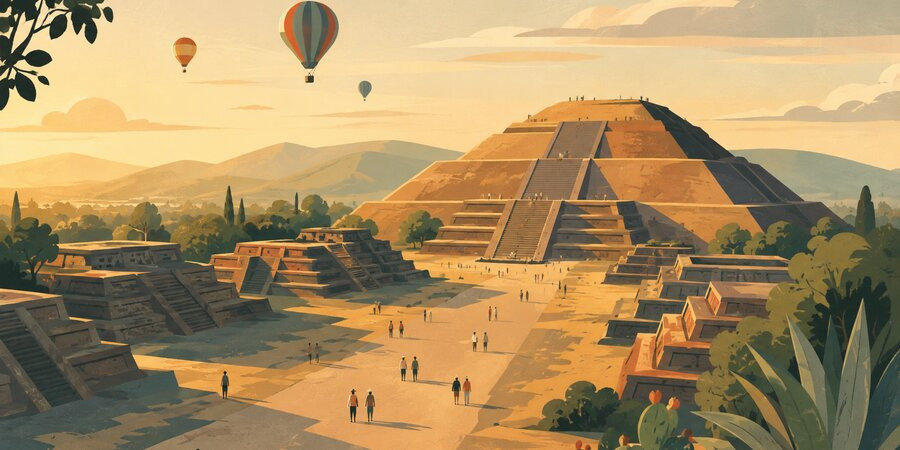
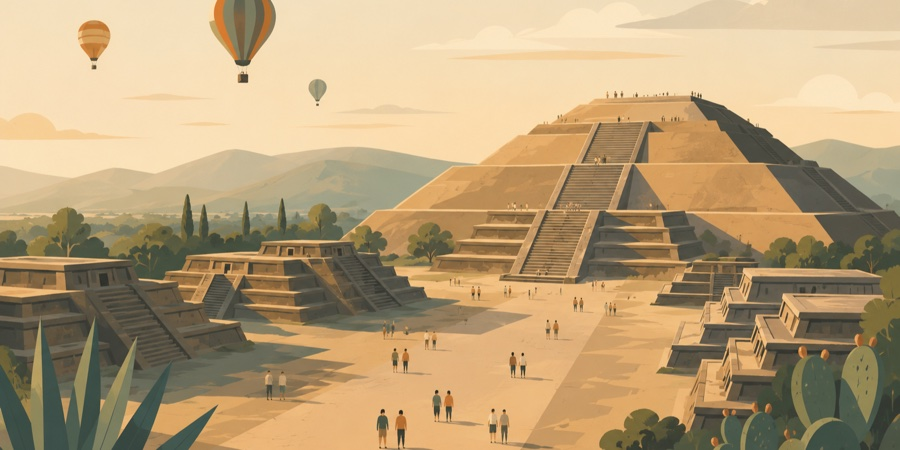
content(guia): WhatsApp transport link, no-image card fallback, new experience photos
- Turns "Insider" into an inline WhatsApp booking link in the transportation
  arrival card (both languages), matching the eSIM link pattern.
- Removes leftover em dashes from the City Zones copy.
- Adds an .expCardNoImg layout so an experience card without a sourced photo
  renders as a clean full-width row instead of a placeholder box.
- Replaces the Teotihuacán and Frida/Casa Azul experience photos and adds a
  new one for Mexico City Through Tacos (Lucha Libre re-exported at the same
  crop/size); all four now use real images.

Claude-Session: https://claude.ai/code/session_01QUve8MaP5rjg7bE24jnv6C

diff --git a/content/guia/cities/cdmx.ts b/content/guia/cities/cdmx.ts
@@ -17,21 +17,21 @@ export const cdmx: City = {
       tabLabel: { es: 'Tu casa', en: 'Your house' },
       mapUrl: 'https://maps.app.goo.gl/qQSdT8RVpHCzGpxi8',
       tagline: { es: 'A pasos de tu puerta', en: 'Steps from your door' },
-      orientation: { es: 'Todo aquí está genuinamente a 10 minutos a pie de tu casa — sin matices, esta es la zona real.', en: 'Everything here is genuinely a 10-minute walk from your house — no hedging, this is the real thing.' },
+      orientation: { es: 'Todo aquí está genuinamente a 10 minutos a pie de tu casa, sin matices, esta es la zona real.', en: 'Everything here is genuinely a 10-minute walk from your house, no hedging, this is the real thing.' },
       spots: {
         es: [
-          { icon: 'coffee',     name: 'Quentin',      distance: 'Ámsterdam 67a',                    note: 'Café de especialidad, repostería y una pequeña zona para sentarte, con decoración cuidada — el favorito del barrio.' },
-          { icon: 'utensilsSm', name: 'Maizajo',       distance: 'Fernando Montes de Oca 113',       note: 'Tortillería en funcionamiento abajo, restaurante formal arriba — pide el suadero y el tamal de boda. La taquería es de pie, sin reservación; el comedor de arriba sí las toma.' },
-          { icon: 'trees',      name: 'Parque España',  distance: 'Parque España',   note: 'A unas cuadras: la contraparte más chica y tranquila del Parque México — una vuelta para correr, tianguis los sábados y bancas que se mantienen en sombra casi todo el día.' },
-          { icon: 'landmark',   name: 'Foro Shakespeare', distance: 'Zamora 7, esq. Veracruz',       note: 'Un teatro independiente activo desde 1982 — el foro alternativo de la ciudad, en la esquina misma. Taquilla abre a las 5pm entre semana.' },
+          { icon: 'coffee',     name: 'Quentin',      distance: 'Ámsterdam 67a',                    note: 'Café de especialidad, repostería y una pequeña zona para sentarte, con decoración cuidada, el favorito del barrio.' },
+          { icon: 'utensilsSm', name: 'Maizajo',       distance: 'Fernando Montes de Oca 113',       note: 'Tortillería en funcionamiento abajo, restaurante formal arriba. Pide el suadero y el tamal de boda. La taquería es de pie, sin reservación; el comedor de arriba sí las toma.' },
+          { icon: 'trees',      name: 'Parque España',  distance: 'Parque España',   note: 'A unas cuadras: la contraparte más chica y tranquila del Parque México, una vuelta para correr, tianguis los sábados y bancas que se mantienen en sombra casi todo el día.' },
+          { icon: 'landmark',   name: 'Foro Shakespeare', distance: 'Zamora 7, esq. Veracruz',       note: 'Un teatro independiente activo desde 1982, el foro alternativo de la ciudad, en la esquina misma. Taquilla abre a las 5pm entre semana.' },
           { icon: 'basket',     name: 'Choza',          distance: 'Tenancingo 38',                    note: 'Tienda y cafetería de vida artesanal: cerámica, textiles y objetos hechos en colaboración con artesanos independientes; buen lugar para un café mientras curioseas.' },
           { icon: 'martini',    name: 'Baltra Bar',     distance: 'Iztaccihuatl 36D',                 note: 'Un bar de coctelería con nombre de isla Galápagos y especialidad en martinis; terraza para el aperitivo antes de cenar. Martes de martini con descuento.' },
         ],
         en: [
-          { icon: 'coffee',     name: 'Quentin',      distance: 'Ámsterdam 67a',                    note: 'Specialty coffee, baked goods, a small seating area with trendy decor — the neighborhood\'s go-to.' },
-          { icon: 'utensilsSm', name: 'Maizajo',       distance: 'Fernando Montes de Oca 113',       note: 'A working tortillería downstairs, a proper restaurant upstairs — order the suadero and the tamal de boda. Standing-room taquería, no reservations; the upstairs dining room does take them.' },
-          { icon: 'trees',      name: 'Parque España',  distance: 'Parque España',   note: 'A few blocks over: a smaller, calmer counterpart to Parque México — a loop for running, a Saturday market, and benches that stay in the shade most of the day.' },
-          { icon: 'landmark',   name: 'Foro Shakespeare', distance: 'Zamora 7, esq. Veracruz',       note: 'An independent theater running since 1982 — Mexico City\'s own alternative stage, right on the corner. Box office opens at 5pm on weekdays.' },
+          { icon: 'coffee',     name: 'Quentin',      distance: 'Ámsterdam 67a',                    note: 'Specialty coffee, baked goods, a small seating area with trendy decor, the neighborhood\'s go-to.' },
+          { icon: 'utensilsSm', name: 'Maizajo',       distance: 'Fernando Montes de Oca 113',       note: 'A working tortillería downstairs, a proper restaurant upstairs. Order the suadero and the tamal de boda. Standing-room taquería, no reservations; the upstairs dining room does take them.' },
+          { icon: 'trees',      name: 'Parque España',  distance: 'Parque España',   note: 'A few blocks over: a smaller, calmer counterpart to Parque México, a loop for running, a Saturday market, and benches that stay in the shade most of the day.' },
+          { icon: 'landmark',   name: 'Foro Shakespeare', distance: 'Zamora 7, esq. Veracruz',       note: 'An independent theater running since 1982, Mexico City\'s own alternative stage, right on the corner. Box office opens at 5pm on weekdays.' },
           { icon: 'basket',     name: 'Choza',          distance: 'Tenancingo 38',                    note: 'A lifestyle shop and coffee counter: ceramics, textiles and objects made in collaboration with independent artisans; good for a coffee while you browse.' },
           { icon: 'martini',    name: 'Baltra Bar',     distance: 'Iztaccihuatl 36D',                 note: 'A cocktail bar named for a Galápagos island, built around a strong martini list; outdoor seating for a pre-dinner drink. Discounted martinis on Tuesdays.' },
         ],
@@ -42,7 +42,7 @@ export const cdmx: City = {
       name: 'Roma Norte',
       mapUrl: 'https://maps.app.goo.gl/NM3HZoTVpWPuNagb9',
       tagline: { es: 'Café de especialidad, galerías pequeñas, vida de banqueta.', en: 'Specialty coffee, small galleries, sidewalk life.' },
-      orientation: { es: 'Una de tus dos zonas más cercanas — la mayoría de estos lugares está a 10 minutos o menos a pie.', en: 'One of your two closest zones — most of these are a 10-minute walk or less.' },
+      orientation: { es: 'Una de tus dos zonas más cercanas, la mayoría de estos lugares está a 10 minutos o menos a pie.', en: 'One of your two closest zones, most of these are a 10-minute walk or less.' },
       spots: {
         es: [
           { icon: 'coffee',     name: 'Panadería Gala',                    distance: 'Tonalá 143',        note: 'Pan y repostería recién horneados, una buena manera de empezar la mañana.' },
@@ -67,14 +67,14 @@ export const cdmx: City = {
       name: 'Condesa',
       mapUrl: 'https://maps.app.goo.gl/B8UA8SMys7ZPKSb17',
       tagline: { es: 'Art déco, parques circulares, mezcalerías de barrio.', en: 'Art deco, circular parks, neighborhood mezcal bars.' },
-      orientation: { es: 'Una de tus dos zonas más cercanas — la mayoría de estos lugares está a 10 minutos o menos a pie.', en: 'One of your two closest zones — most of these are a 10-minute walk or less.' },
+      orientation: { es: 'Una de tus dos zonas más cercanas, la mayoría de estos lugares está a 10 minutos o menos a pie.', en: 'One of your two closest zones, most of these are a 10-minute walk or less.' },
       spots: {
         es: [
           { icon: 'coffee',     name: 'Lardo',                                                     distance: 'Agustín Melgar 6',                  note: 'Panadería y bistró en una parada, perfecto para el desayuno.' },
           { icon: 'utensilsSm', name: 'Ciena',                                                      distance: 'Alfonso Reyes 101, esq. Tacámbaro', note: 'Cocina abierta y terraza que sirve todo el día: desayuno desde las 8, barra por la tarde, cena sin prisa. Llévate la galleta de chocolate con sal.' },
           { icon: 'trees',      name: 'Parque México',                                              distance: 'Av. México',                        note: 'El corazón verde de la colonia: anfiteatro, viveros y bancas art déco.' },
           { icon: 'landmark',   name: 'Centro Cultural Bella Época / Librería Rosario Castellanos', distance: 'Tamaulipas 202',                    note: 'Un cine art déco convertido en la librería techada más grande del país; abre diario hasta las 10 pm.' },
-          { icon: 'basket',     name: 'Proyecto Rufina',                                            distance: 'Ámsterdam 133',                     note: 'Ropa y cerámica mexicana en fibras naturales, producción limitada — no venden en línea, solo aquí.' },
+          { icon: 'basket',     name: 'Proyecto Rufina',                                            distance: 'Ámsterdam 133',                     note: 'Ropa y cerámica mexicana en fibras naturales, producción limitada; no venden en línea, solo aquí.' },
           { icon: 'martini',    name: 'La Botica Mezcalería',                                       distance: 'Campeche 396',                      note: 'La primera mezcalería de la Ciudad de México, abierta en 2005 en un local de doce metros cuadrados; barra sencilla, mezcales de productor pequeño.' },
         ],
         en: [
@@ -82,8 +82,8 @@ export const cdmx: City = {
           { icon: 'utensilsSm', name: 'Ciena',                                                      distance: 'Alfonso Reyes 101, esq. Tacámbaro', note: 'Open kitchen and a terrace that serves all day: breakfast from 8, bar menu in the afternoon, unhurried dinner. Take the salted chocolate cookie to go.' },
           { icon: 'trees',      name: 'Parque México',                                              distance: 'Av. México',                        note: 'The green heart of the neighborhood: amphitheater, plant stalls, art deco benches.' },
           { icon: 'landmark',   name: 'Centro Cultural Bella Época / Librería Rosario Castellanos', distance: 'Tamaulipas 202',                    note: 'An art deco cinema turned the country\'s largest single-room bookstore; open daily until 10 pm.' },
-          { icon: 'basket',     name: 'Proyecto Rufina',                                            distance: 'Ámsterdam 133',                     note: 'Mexican clothing and ceramics in natural fibers, small-batch — no online store, only in person.' },
-          { icon: 'martini',    name: 'La Botica Mezcalería',                                       distance: 'Campeche 396',                      note: 'The city\'s first mezcalería, opened in 2005 in a twelve-square-meter room — a simple bar, small-producer mezcal.' },
+          { icon: 'basket',     name: 'Proyecto Rufina',                                            distance: 'Ámsterdam 133',                     note: 'Mexican clothing and ceramics in natural fibers, small-batch; no online store, only in person.' },
+          { icon: 'martini',    name: 'La Botica Mezcalería',                                       distance: 'Campeche 396',                      note: 'The city\'s first mezcalería, opened in 2005 in a twelve-square-meter room; a simple bar, small-producer mezcal.' },
         ],
       },
     },
@@ -98,8 +98,8 @@ export const cdmx: City = {
           { icon: 'coffee',     name: 'ENO',             distance: 'Petrarca 258',        note: 'El café de Enrique Olvera: concha con nata y un espresso antes de los museos.' },
           { icon: 'utensilsSm', name: 'El Turix',        distance: 'Emilio Castelar 212', note: 'Cochinita pibil de barra, en efectivo y de pie; el contrapeso perfecto al Polanco de manteles.' },
           { icon: 'trees',      name: 'Parque Lincoln',  distance: 'Emilio Castelar 163', note: 'Pavorreales, el reloj y las mejores bancas para leer.' },
-          { icon: 'landmark',   name: 'Soumaya + Jumex', distance: 'Plaza Carso',         note: 'Dos museos pared con pared: Soumaya gratis y abierto diario, Jumex de arte contemporáneo — cierra lunes. Un solo viaje, tres horas.' },
-          { icon: 'basket',     name: 'LAGO',            distance: 'Av. Pdte. Masaryk 310', note: 'Diseño latinoamericano contemporáneo — ropa, joyería, cerámica y objetos de más de veinte países, todo curado bajo un mismo techo.' },
+          { icon: 'landmark',   name: 'Soumaya + Jumex', distance: 'Plaza Carso',         note: 'Dos museos pared con pared: Soumaya gratis y abierto diario, Jumex de arte contemporáneo, cierra lunes. Un solo viaje, tres horas.' },
+          { icon: 'basket',     name: 'LAGO',            distance: 'Av. Pdte. Masaryk 310', note: 'Diseño latinoamericano contemporáneo: ropa, joyería, cerámica y objetos de más de veinte países, todo curado bajo un mismo techo.' },
           { icon: 'martini',    name: 'Ticuchi',         distance: 'Petrarca 254',        note: 'La barra de agaves del equipo de Pujol, a la luz de velas; abre de martes a domingo, desde las 5:30.' },
         ],
         en: [
@@ -107,7 +107,7 @@ export const cdmx: City = {
           { icon: 'utensilsSm', name: 'El Turix',        distance: 'Emilio Castelar 212', note: 'Counter-service cochinita pibil, cash and standing; the perfect counterweight to white-tablecloth Polanco.' },
           { icon: 'trees',      name: 'Parque Lincoln',  distance: 'Emilio Castelar 163', note: 'Peacocks, a bandstand, and the best benches for reading.' },
           { icon: 'landmark',   name: 'Soumaya + Jumex', distance: 'Plaza Carso',         note: 'Two museums wall to wall: Soumaya free and open daily, Jumex for contemporary art, closed Mondays. One trip, three hours.' },
-          { icon: 'basket',     name: 'LAGO',            distance: 'Av. Pdte. Masaryk 310', note: 'Contemporary Latin American design — clothing, jewelry, ceramics and objects from over twenty countries, all curated under one roof.' },
+          { icon: 'basket',     name: 'LAGO',            distance: 'Av. Pdte. Masaryk 310', note: 'Contemporary Latin American design: clothing, jewelry, ceramics and objects from over twenty countries, all curated under one roof.' },
           { icon: 'martini',    name: 'Ticuchi',         distance: 'Petrarca 254',        note: 'The Pujol team\'s agave bar, candlelit; Tuesday to Sunday, from 5:30 pm.' },
         ],
       },
@@ -121,7 +121,7 @@ export const cdmx: City = {
       spots: {
         es: [
           { icon: 'coffee',     name: 'Café El Popular',         distance: '5 de Mayo',             note: 'Café de olla y pan dulce casi a toda hora; el desayuno de los que madrugan y de los que no durmieron.' },
-          { icon: 'utensilsSm', name: 'Azul Histórico',          distance: 'Isabel la Católica 30', note: 'Cocina mexicana de Ricardo Muñoz Zurita en el patio de un palacio del siglo XVII, entre árboles y lámparas colgantes. Desayuno diario de 9 a 12; comida y cena hasta las 11 — reserva, el patio se llena.' },
+          { icon: 'utensilsSm', name: 'Azul Histórico',          distance: 'Isabel la Católica 30', note: 'Cocina mexicana de Ricardo Muñoz Zurita en el patio de un palacio del siglo XVII, entre árboles y lámparas colgantes. Desayuno diario de 9 a 12; comida y cena hasta las 11. Reserva, el patio se llena.' },
           { icon: 'trees',      name: 'Alameda Central',         distance: 'Junto a Bellas Artes',  note: 'El parque más antiguo de América, recién a un costado de Bellas Artes; crúzalo al atardecer.' },
           { icon: 'landmark',   name: 'Templo Mayor + Bellas Artes', distance: 'Centro Histórico, a pie', note: 'Los dos anclas del Centro, a 15 minutos a pie por Madero: Templo Mayor (el corazón mexica de Tenochtitlan, con el monolito de Coyolxauhqui) y el Palacio de Bellas Artes (cúpula art nouveau, murales de Rivera y Siqueiros). Ambos cierran lunes.' },
           { icon: 'basket',     name: 'Mercado de San Juan',     distance: 'Ernesto Pugibet 21', note: 'El mercado de los chefs: quesos importados con degustación, mariscos de ambas costas; ve en la mañana y pide la torta de jamón serrano.' },
@@ -222,7 +222,7 @@ export const cdmx: City = {
       beforeLede: 'Lo básico y práctico, para que dejes de pensar en logística en cuanto aterrices.',
       arrivalItems: [
         { icon: 'plane',     title: 'Aeropuerto',      body: 'La mayoría de los vuelos llegan al AICM (Terminal 1 o 2). De ahí, un taxi autorizado o Uber tarda 30–45 min a {neighborhood}.' },
-        { icon: 'car',       title: 'Transporte',      body: 'Usa Uber, más barato y seguro que parar un taxi en la calle. El Metro es excelente si te sientes cómodo entre multitudes. Para transporte privado, te recomendamos Insider, una opción segura para quienes buscan comodidad y un transporte confiable.' },
+        { icon: 'car',       title: 'Transporte',      body: 'Usa Uber, más barato y seguro que parar un taxi en la calle. El Metro es excelente si te sientes cómodo entre multitudes. Para transporte privado, te recomendamos ', link: { text: 'Insider', href: "https://wa.me/525539149062?text=Hello!%20I'm%20interested%20in%20booking%20an%20Insider%20Mexico%20City%20experience.", after: ', una opción segura para quienes buscan comodidad y un transporte confiable.' } },
         { icon: 'cloudSun',  title: 'Clima',           body: 'Templado todo el año, 18–25 °C. Las lluvias se concentran de junio a septiembre, casi siempre chubascos breves por la tarde. Lleva capas.' },
         { icon: 'banknote',  title: 'Dinero',          body: 'Las tarjetas se aceptan ampliamente. Lleva algo de efectivo en pesos para mercados, propinas y comida callejera. En restaurantes, la propina recomendada es 10–15%; redondea en taxis y puestos casuales.' },
         { icon: 'wifi',      title: 'Conectividad',    body: 'Un eSIM se activa en minutos. ', link: { text: 'Consigue el tuyo con Airalo aquí', href: 'https://airalo.tpm.li/xkRXTIKe', after: '. El wifi es confiable en la propiedad y en la mayoría de los cafés.' } },
@@ -402,7 +402,7 @@ export const cdmx: City = {
       beforeLede: 'The practical basics, so you can stop thinking about logistics the moment you land.',
       arrivalItems: [
         { icon: 'plane',     title: 'Airport',        body: 'Most flights land at AICM (Terminal 1 or 2). From there, an authorized airport taxi or Uber takes 30–45 min to {neighborhood}.' },
-        { icon: 'car',       title: 'Transportation', body: "Use Uber, cheaper and safer than hailing on the street. The Metro is excellent if you're comfortable with crowds. For private transportation, we recommend Insider, a safe option for you looking for comfort, and reliable transport." },
+        { icon: 'car',       title: 'Transportation', body: "Use Uber, cheaper and safer than hailing on the street. The Metro is excellent if you're comfortable with crowds. For private transportation, we recommend ", link: { text: 'Insider', href: "https://wa.me/525539149062?text=Hello!%20I'm%20interested%20in%20booking%20an%20Insider%20Mexico%20City%20experience.", after: ', a safe option for you looking for comfort, and reliable transport.' } },
         { icon: 'cloudSun',  title: 'Weather',        body: 'Mild year-round, 18–25 °C. Rain concentrates June–September, mostly brief afternoon showers. Pack layers.' },
         { icon: 'banknote',  title: 'Money',          body: 'Cards are widely accepted. Keep some pesos in cash for markets, tips, and street food. In restaurants, 10–15% is the recommended tip; round up for taxis and casual spots.' },
         { icon: 'wifi',      title: 'Connectivity',   body: 'An eSIM activates in minutes. ', link: { text: 'Get yours through Airalo here', href: 'https://airalo.tpm.li/xkRXTIKe', after: '. Wi-Fi is reliable at the property and most cafés.' } },

diff --git a/app/guia/[partner]/GuiaClient.tsx b/app/guia/[partner]/GuiaClient.tsx
@@ -77,9 +77,7 @@ const EXP_PHOTOS: Record<string, string> = {
   'exp-teotihuacan': '/images/guia/experiences/exp-teotihuacan.jpg',
   'exp-lucha': '/images/guia/experiences/exp-lucha.jpg',
   'exp-frida': '/images/guia/experiences/exp-frida.jpg',
-  // TODO: exp-tacos needs a sourced photo (street taquería scene, matching
-  // the illustrated style of the other cards) — falls back to the text
-  // placeholder (.expThumb) until one is added here.
+  'exp-tacos': '/images/guia/experiences/exp-tacos.jpg',
   'exp-own-plan': '/images/guia/experiences/exp-own-plan.jpg',
 }
 
@@ -90,17 +88,19 @@ function ExperienceCard({ exp, t }: { exp: Experience; t: CityCopy }) {
   const descriptions = Array.isArray(exp.description) ? exp.description : [exp.description]
   const minTimes = Array.isArray(exp.minBookingTime) ? exp.minBookingTime : [exp.minBookingTime]
 
+  const hasPhoto = Boolean(EXP_PHOTOS[exp.id])
+
   return (
-    <div className={styles.expCard}>
-      {EXP_PHOTOS[exp.id] ? (
+    <div className={`${styles.expCard} ${hasPhoto ? '' : styles.expCardNoImg}`}>
+      {hasPhoto && (
         // eslint-disable-next-line @next/next/no-img-element
         <img className={styles.expImg} src={EXP_PHOTOS[exp.id]} alt={exp.title} />
-      ) : (
-        <div className={styles.expThumb}>{exp.title}</div>
       )}
       <div className={styles.expBody}>
-        <h5 className={styles.h5}>{exp.title}</h5>
-        <p className={styles.expNote}>{exp.teaser}</p>
+        <div className={styles.expTextBlock}>
+          <h5 className={styles.h5}>{exp.title}</h5>
+          <p className={styles.expNote}>{exp.teaser}</p>
+        </div>
         <div className={styles.expActions}>
           <a className={styles.expBookLink} href={WA_BOOK_URL} target="_blank" rel="noopener">
             <svg className={styles.expBookIcon} viewBox="0 0 24 24" width="14" height="14" aria-hidden="true" fill="currentColor">

diff --git a/app/guia/[partner]/guia.module.css b/app/guia/[partner]/guia.module.css
@@ -316,8 +316,15 @@
 .expGrid { display: grid; grid-template-columns: repeat(auto-fit, minmax(260px, 1fr)); gap: 20px; }
 .expCard { background: var(--paper); border-radius: var(--radius-xl); overflow: hidden; box-shadow: var(--shadow-card); }
 .expImg { width: 100%; height: 170px; object-fit: cover; display: block; }
-.expThumb { width: 100%; height: 150px; background: var(--sand); display: flex; align-items: center; justify-content: center; color: var(--sage); font-size: 12px; text-align: center; padding: 0 16px; }
 .expBody { padding: 18px; }
+/* Cards without a sourced photo (e.g. a not-yet-shot experience) go full-width
+   and lay out as a text + actions row instead of leaving an empty image slot. */
+.expCardNoImg { grid-column: 1 / -1; }
+.expCardNoImg .expBody { display: flex; flex-wrap: wrap; align-items: center; gap: 14px 24px; padding: 22px 24px; }
+.expCardNoImg .expTextBlock { flex: 1 1 260px; min-width: 0; }
+.expCardNoImg .expNote { margin-top: 4px; }
+.expCardNoImg .expActions { flex: none; margin-top: 0; }
+.expCardNoImg .expDetailsPanel { flex-basis: 100%; }
 .expNote { font-size: 13px; color: var(--sage); line-height: 1.7; margin: 6px 0 0; }
 .expPartnerNote { font-size: 13px; color: var(--sage); margin: 0; }
 .expActions { display: flex; flex-wrap: wrap; align-items: center; justify-content: space-between; gap: 8px 12px; margin-top: 12px; }
